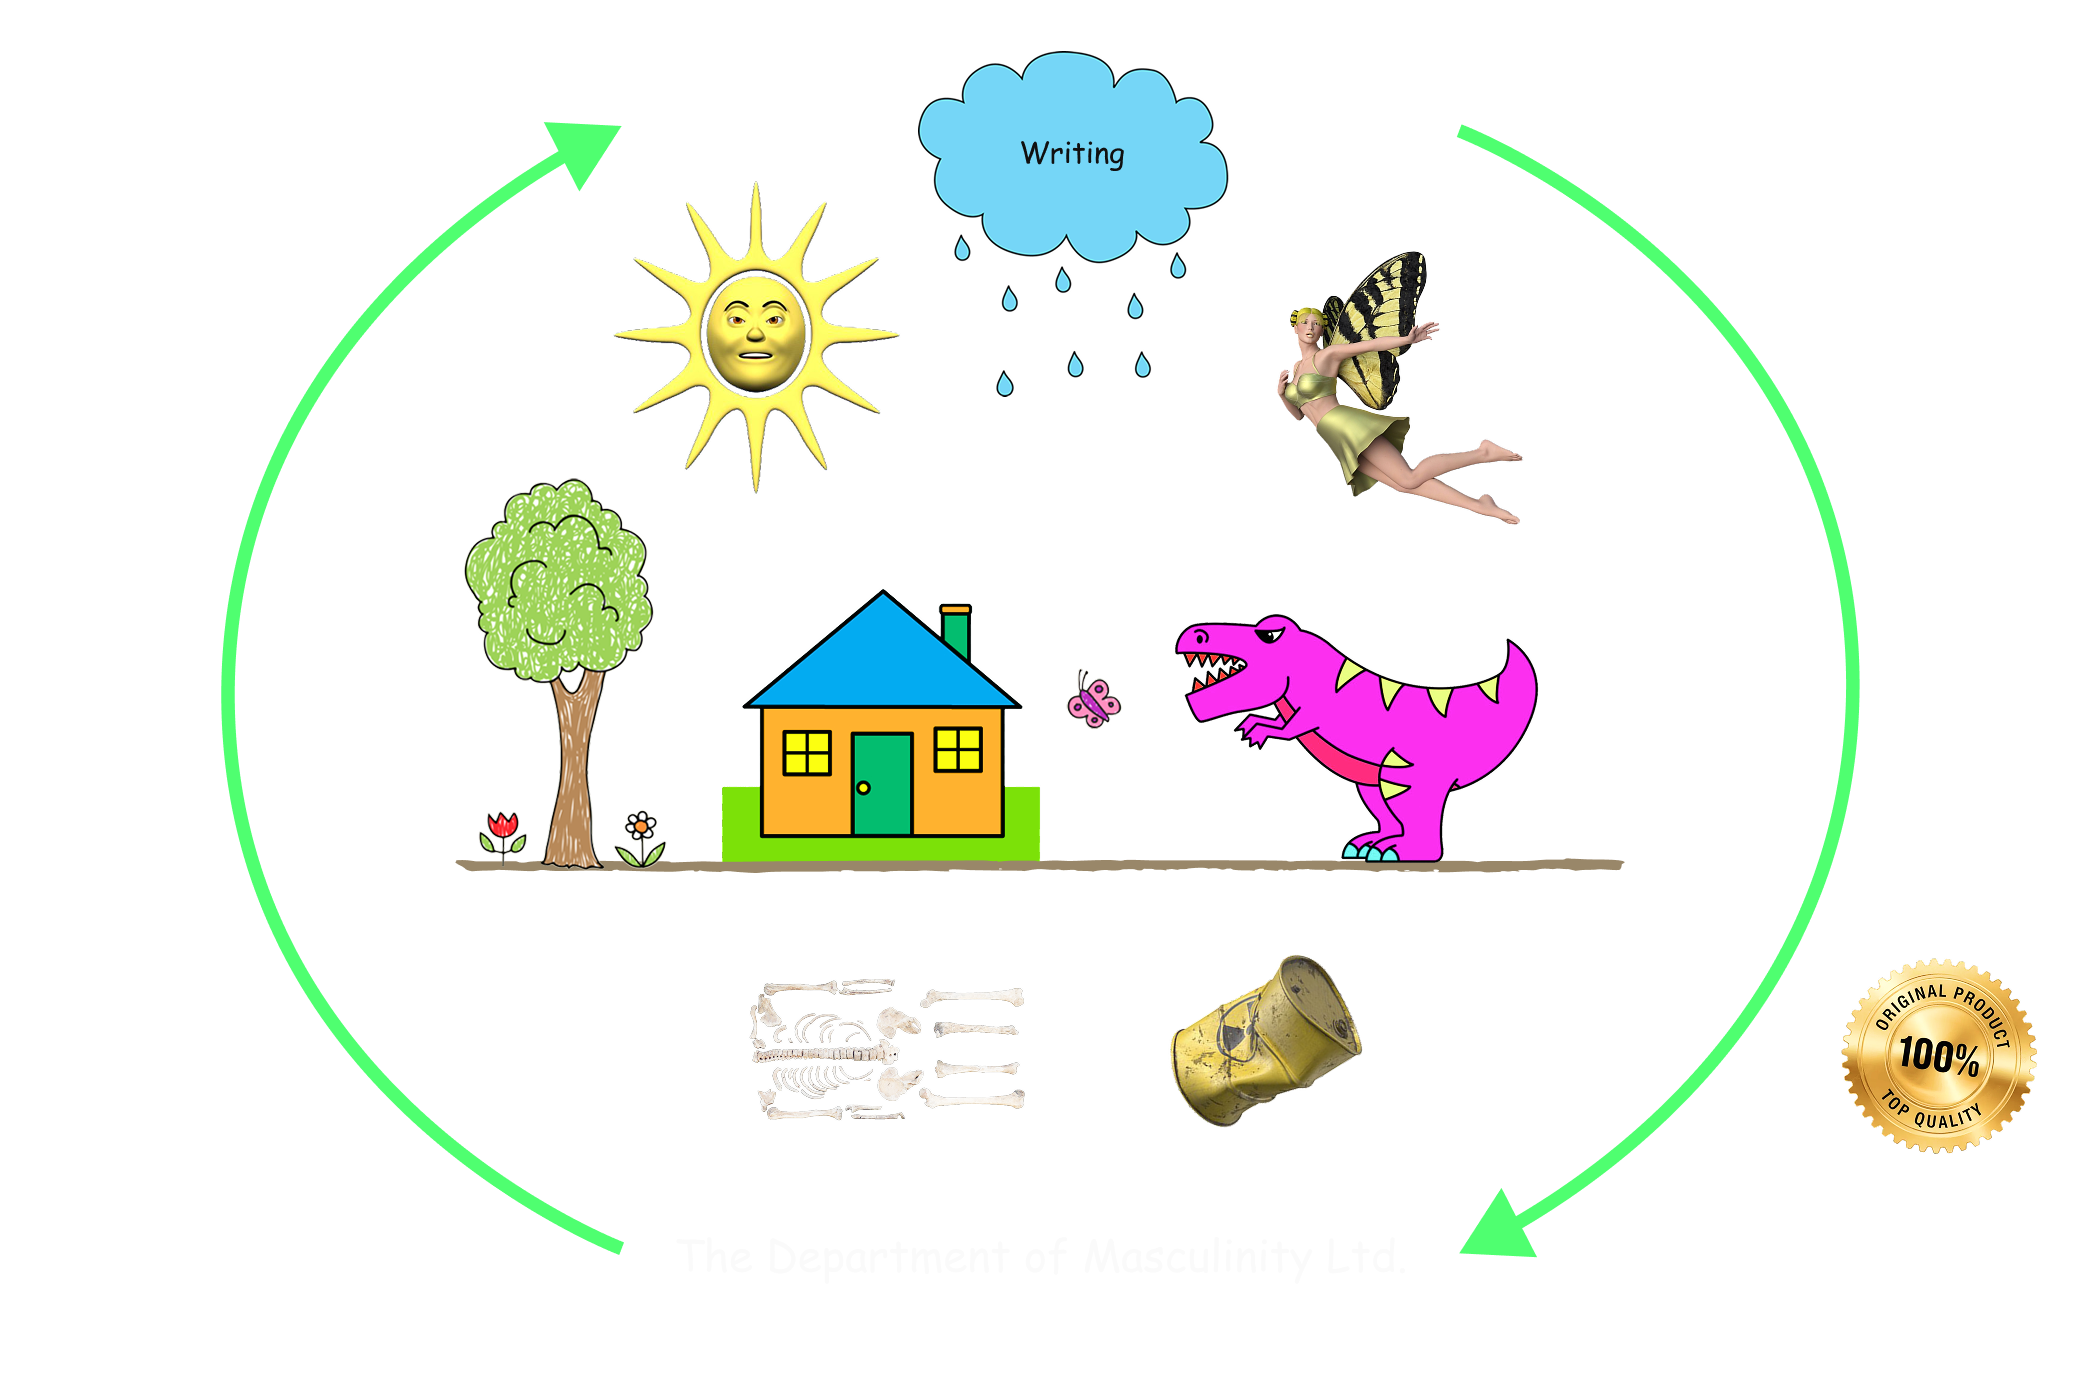
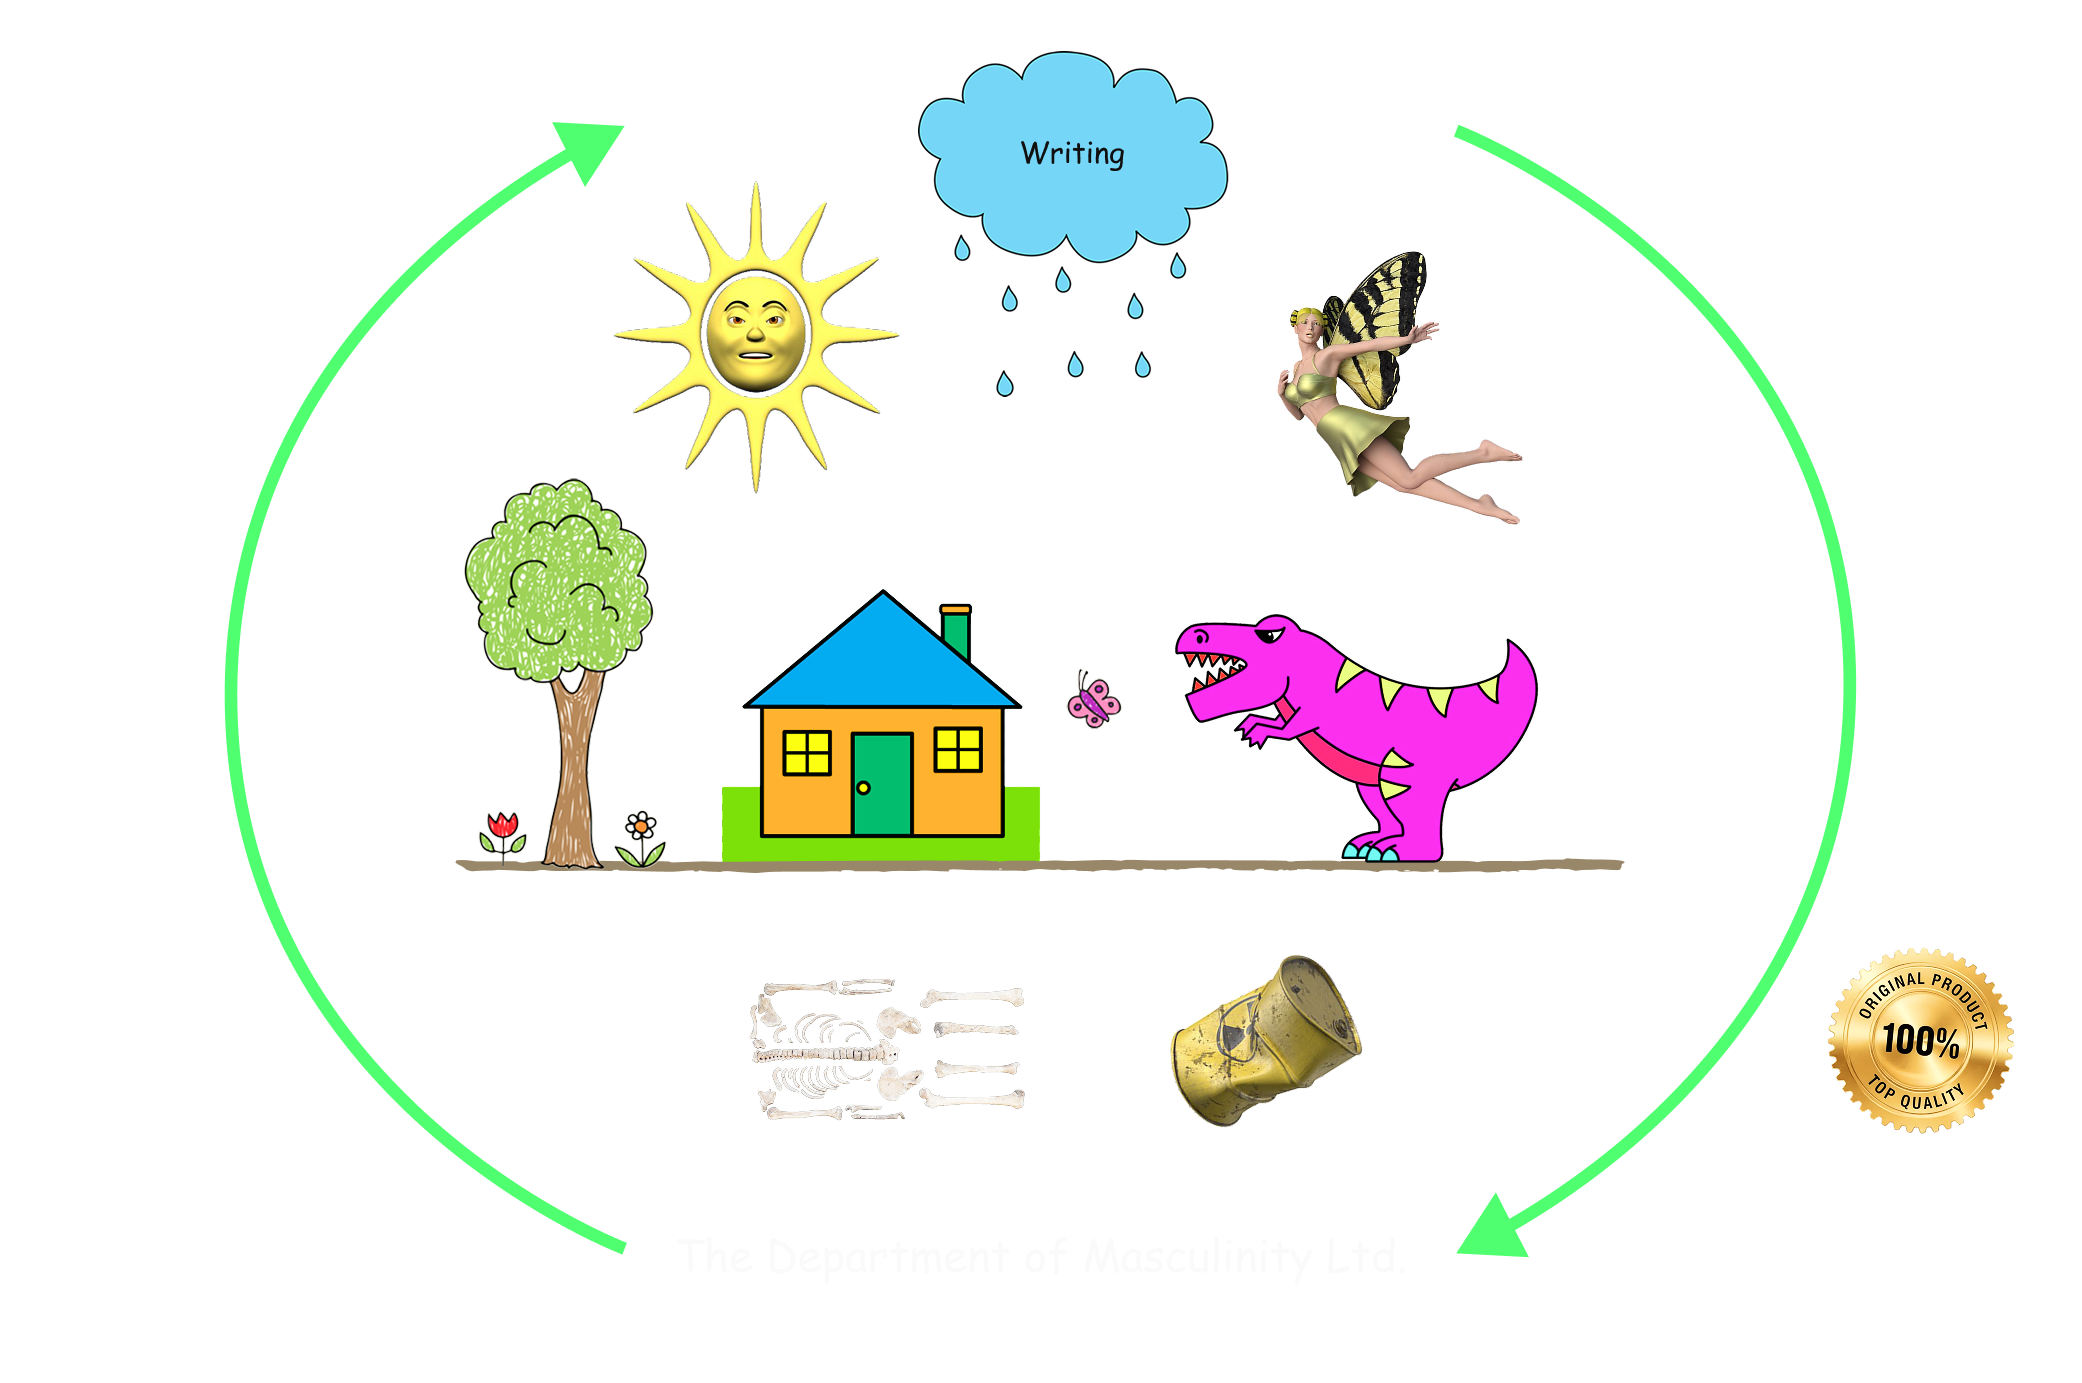
Add files via upload

diff --git a/index.html b/index.html
@@ -73,14 +73,14 @@
 
       <tr data-href='row2.html'>
         <td>Textiles</td>
-        <td>Inside Out</td>
+        <td>Queer Fabric of Society</td>
         <td>10 Jan 2026</td>
-        <td>Intimacy at raves and our comfort in textiles.</td>
+        <td>Intimacy at raves and finding comfort in textiles.</td>
       </tr>
 
       <tr data-href='row3.html'>
         <td>Identity</td>
-        <td>Eve Plus Testosterone</td>
+        <td>New Vagina</td>
         <td>05 Jan 2026</td>
         <td>We’re all female and we hate it.</td>
       </tr>

diff --git a/style.css b/style.css
@@ -158,7 +158,7 @@ body {
   top: 44.7vh; 
   left: 50%;
   transform: translate(-50%, -50%);
-  width: 68vw;
+  width: 70vw;
   height: auto;
   object-fit: contain;
 }
